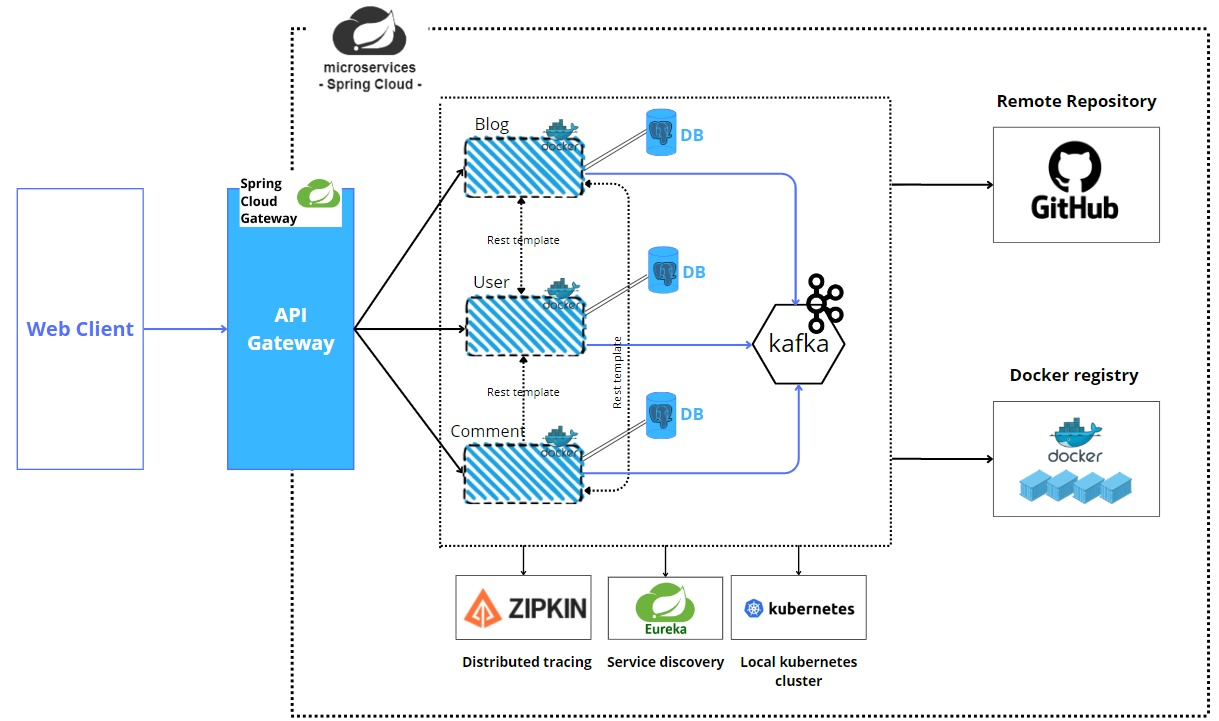
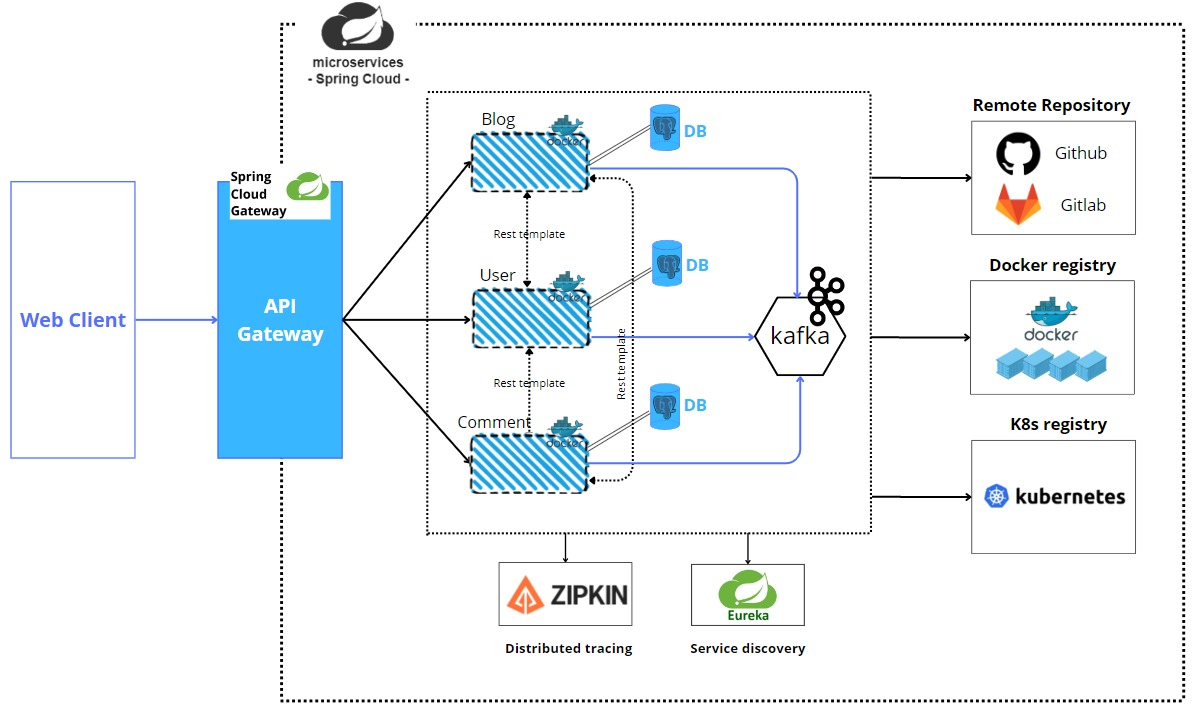
Add gitlab section in readme

diff --git a/README.md b/README.md
@@ -42,7 +42,10 @@ This project is a tourism blog application where each user can add a blog and ac
     - [2. Setup Spring Cloud Gateway](#2-setup-spring-cloud-gateway)
     - [3. Views](#2-views)
 - [6. Distributed Tracing Sleuth & Zipkin](#6-distributed-tracing-sleuth--zipkin)
-    - [1. What is Distributed Tracing?](#1-what-is-distributed-tracing?)
+    - [1. What is Distributed Tracing?](#1-what-is-distributed-tracing)
+- [7. Containerizing microservices using Docker](#7-containerizing-microservices-using-docker)
+    - [1. Docker — Overview](#1-docker--overview)
+- [8. Deploy with Gitlab](#8-deploy-with-gitlab)
 
 ## 0. Setting Up Microservices
 
@@ -231,3 +234,8 @@ Docker is a **containerization technology** that allows developers to package an
 
 - **Registry:** Docker images can be stored and shared in registries, which act as centralized repositories.
 
+## 8. Deploy with Gitlab
+
+We started by manually pushing our code into Gitlab. This is the intended pipeline we're aiming to achieve:
+
+<img src="assets/images/gitlab.PNG" alt="spring mvc layers" width="800" height="300">
